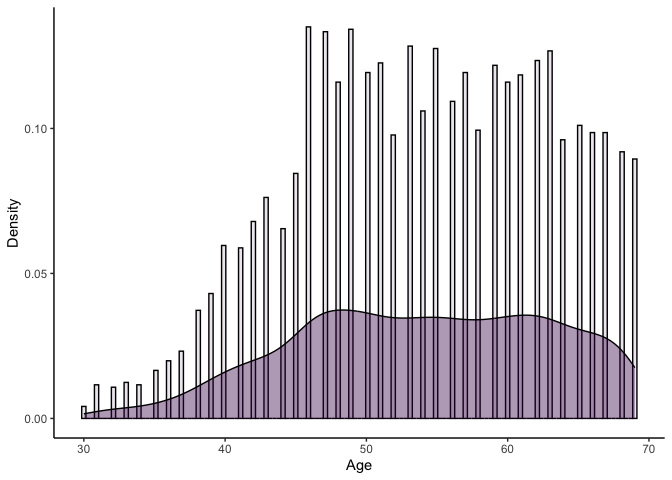
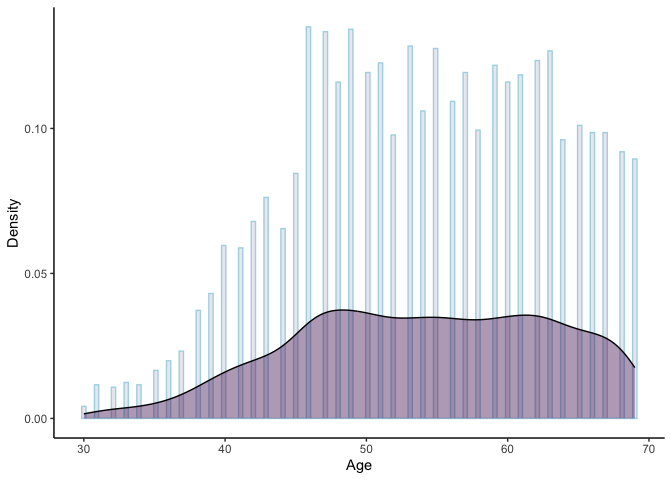
Finish EDA.

Changed region(s): [[0.0938, 0.0625, 0.9688, 0.875]]

diff --git a/P8130_Final_Project_Report.md b/P8130_Final_Project_Report.md
@@ -6,126 +6,17 @@ Jiying Wang
 ``` r
 knitr::opts_chunk$set(echo = TRUE, message = FALSE, warning = FALSE)
 library(tidyverse)
-```
-
-    ## ── Attaching core tidyverse packages ──────────────────────── tidyverse 2.0.0 ──
-    ## ✔ dplyr     1.1.4     ✔ readr     2.1.4
-    ## ✔ forcats   1.0.0     ✔ stringr   1.5.1
-    ## ✔ ggplot2   3.4.4     ✔ tibble    3.2.1
-    ## ✔ lubridate 1.9.3     ✔ tidyr     1.3.0
-    ## ✔ purrr     1.0.2     
-    ## ── Conflicts ────────────────────────────────────────── tidyverse_conflicts() ──
-    ## ✖ dplyr::filter() masks stats::filter()
-    ## ✖ dplyr::lag()    masks stats::lag()
-    ## ℹ Use the conflicted package (<http://conflicted.r-lib.org/>) to force all conflicts to become errors
-
-``` r
 library(dplyr)
 library(MASS)
-```
-
-    ## 
-    ## Attaching package: 'MASS'
-    ## 
-    ## The following object is masked from 'package:dplyr':
-    ## 
-    ##     select
-
-``` r
 library(ggplot2)
 library(corrplot)
-```
-
-    ## corrplot 0.92 loaded
-
-``` r
 library(leaps)
 library(glmnet)
-```
-
-    ## Loading required package: Matrix
-    ## 
-    ## Attaching package: 'Matrix'
-    ## 
-    ## The following objects are masked from 'package:tidyr':
-    ## 
-    ##     expand, pack, unpack
-    ## 
-    ## Loaded glmnet 4.1-8
-
-``` r
 library(igraph)
-```
-
-    ## 
-    ## Attaching package: 'igraph'
-    ## 
-    ## The following objects are masked from 'package:lubridate':
-    ## 
-    ##     %--%, union
-    ## 
-    ## The following objects are masked from 'package:dplyr':
-    ## 
-    ##     as_data_frame, groups, union
-    ## 
-    ## The following objects are masked from 'package:purrr':
-    ## 
-    ##     compose, simplify
-    ## 
-    ## The following object is masked from 'package:tidyr':
-    ## 
-    ##     crossing
-    ## 
-    ## The following object is masked from 'package:tibble':
-    ## 
-    ##     as_data_frame
-    ## 
-    ## The following objects are masked from 'package:stats':
-    ## 
-    ##     decompose, spectrum
-    ## 
-    ## The following object is masked from 'package:base':
-    ## 
-    ##     union
-
-``` r
 library(arules)
-```
-
-    ## 
-    ## Attaching package: 'arules'
-    ## 
-    ## The following object is masked from 'package:dplyr':
-    ## 
-    ##     recode
-    ## 
-    ## The following objects are masked from 'package:base':
-    ## 
-    ##     abbreviate, write
-
-``` r
 library(caret)
-```
-
-    ## Loading required package: lattice
-    ## 
-    ## Attaching package: 'caret'
-    ## 
-    ## The following object is masked from 'package:purrr':
-    ## 
-    ##     lift
-
-``` r
 library(pROC)
 ```
-
-    ## Type 'citation("pROC")' for a citation.
-    ## 
-    ## Attaching package: 'pROC'
-    ## 
-    ## The following objects are masked from 'package:stats':
-    ## 
-    ##     cov, smooth, var
 
 ## Clean the dataset
 
@@ -178,8 +69,6 @@ breastcancer_clean
 
 ## EDA
 
-### Descriptive Statistics
-
 ``` r
 # Descriptive table with summary statistics
 summary(breastcancer_clean) |>
@@ -206,6 +95,16 @@ breastcancer_clean |>
 | 53.97217 | 8.963134 |        30.47366 |       21.1197 |                    14.35711 |                  8.099675 |                   4.158052 |                 5.109331 |             71.29796 |           22.92143 |               0.3264658 |             0.2870226 |
 
 ``` r
+prop.table(table(breastcancer_clean$status)) |>
+  knitr::kable()
+```
+
+| Var1 |      Freq |
+|:-----|----------:|
+| 0    | 0.8469185 |
+| 1    | 0.1530815 |
+
+``` r
 # Correlation matrix for all variables
 cor_matrix = breastcancer_clean |>
   select_if(is.numeric) |>
@@ -214,6 +113,13 @@ corrplot::corrplot(cor_matrix, type = "upper", diag = FALSE)
 ```
 
 ![](P8130_Final_Project_Report_files/figure-gfm/unnamed-chunk-4-1.png)<!-- -->
+
+``` r
+# Heat map
+corrplot::corrplot(cor_matrix, method = "color")
+```
+
+![](P8130_Final_Project_Report_files/figure-gfm/unnamed-chunk-4-2.png)<!-- -->
 
 ``` r
 # Scatter plot matrix for all variables
@@ -225,8 +131,8 @@ pairs(breastcancer_clean)
 ``` r
 # Histograms and density plots
 breastcancer_clean |>
-  ggplot(aes(x = age, y = ..density.., fill = "skyblue", alpha = 0.5)) +
-  geom_histogram(binwidth = 0.3, colour = "black", alpha = 0.1) +
+  ggplot(aes(x = age, y = ..density.., fill = "purple", alpha = 0.5)) +
+  geom_histogram(binwidth = 0.3, colour = "lightblue", alpha = 0.1) +
   geom_density(alpha = 0.4) +
   labs(
     x = "Age",
@@ -240,8 +146,8 @@ breastcancer_clean |>
 
 ``` r
 breastcancer_clean |>
-  ggplot(aes(x = tumor_size, y = ..density.., fill = "skyblue", alpha = 0.5)) +
-  geom_histogram(binwidth = 0.3, colour = "black", alpha = 0.1) +
+  ggplot(aes(x = tumor_size, y = ..density.., fill = "purple", alpha = 0.5)) +
+  geom_histogram(binwidth = 0.3, colour = "lightblue", alpha = 0.1) +
   geom_density(alpha = 0.4) +
   labs(
     x = "Age",
@@ -255,8 +161,8 @@ breastcancer_clean |>
 
 ``` r
 breastcancer_clean |>
-  ggplot(aes(x = regional_node_examined, y = ..density.., fill = "skyblue", alpha = 0.5)) +
-  geom_histogram(binwidth = 0.3, colour = "black", alpha = 0.1) +
+  ggplot(aes(x = regional_node_examined, y = ..density.., fill = "purple", alpha = 0.5)) +
+  geom_histogram(binwidth = 0.3, colour = "lightblue", alpha = 0.1) +
   geom_density(alpha = 0.4) +
   labs(
     x = "Age",
@@ -270,8 +176,8 @@ breastcancer_clean |>
 
 ``` r
 breastcancer_clean |>
-  ggplot(aes(x = reginol_node_positive, y = ..density.., fill = "skyblue", alpha = 0.5)) +
-  geom_histogram(binwidth = 0.3, colour = "black", alpha = 0.1) +
+  ggplot(aes(x = reginol_node_positive, y = ..density.., fill = "purple", alpha = 0.5)) +
+  geom_histogram(binwidth = 0.3, colour = "lightblue", alpha = 0.1) +
   geom_density(alpha = 0.4) +
   labs(
     x = "Age",
@@ -285,8 +191,8 @@ breastcancer_clean |>
 
 ``` r
 breastcancer_clean |>
-  ggplot(aes(x = node_positive_prop, y = ..density.., fill = "skyblue", alpha = 0.5)) +
-  geom_histogram(binwidth = 0.3, colour = "black", alpha = 0.1) +
+  ggplot(aes(x = node_positive_prop, y = ..density.., fill = "purple", alpha = 0.5)) +
+  geom_histogram(binwidth = 0.3, colour = "lightblue", alpha = 0.1) +
   geom_density(alpha = 0.4) +
   labs(
     x = "Age",
@@ -299,5 +205,95 @@ breastcancer_clean |>
 ![](P8130_Final_Project_Report_files/figure-gfm/unnamed-chunk-6-5.png)<!-- -->
 
 ``` r
-# Boxplots grouped by categories
+# Boxplots 
+par(mfrow=c(2,3))
+boxplot(breastcancer_clean$age, main='Age')
+boxplot(breastcancer_clean$tumor_size, main='Tumor Size')
+boxplot(breastcancer_clean$regional_node_examined,main='Node Examined' )
+boxplot(breastcancer_clean$reginol_node_positive, main='Positive Node')
+boxplot(breastcancer_clean$node_positive_prop, main='Proportion of Positive Nodes')
 ```
+
+![](P8130_Final_Project_Report_files/figure-gfm/unnamed-chunk-7-1.png)<!-- -->
+
+``` r
+par(mfrow = c(2,3))
+boxplot(age ~ status, breastcancer_clean)
+boxplot(tumor_size ~ status, breastcancer_clean)
+boxplot(regional_node_examined ~ status, breastcancer_clean)
+boxplot(reginol_node_positive ~ status, breastcancer_clean)
+boxplot(node_positive_prop ~ status, breastcancer_clean)
+```
+
+![](P8130_Final_Project_Report_files/figure-gfm/unnamed-chunk-8-1.png)<!-- -->
+
+``` r
+# Barplots for categorical variables
+ggplot(breastcancer_clean, aes(x = race, fill = status)) + 
+  geom_bar(position = "dodge")
+```
+
+![](P8130_Final_Project_Report_files/figure-gfm/unnamed-chunk-9-1.png)<!-- -->
+
+``` r
+ggplot(breastcancer_clean, aes(x = marital_status, fill = status)) + 
+  geom_bar(position = "dodge")
+```
+
+![](P8130_Final_Project_Report_files/figure-gfm/unnamed-chunk-9-2.png)<!-- -->
+
+``` r
+ggplot(breastcancer_clean, aes(x = t_stage, fill = status)) + 
+  geom_bar(position = "dodge")
+```
+
+![](P8130_Final_Project_Report_files/figure-gfm/unnamed-chunk-9-3.png)<!-- -->
+
+``` r
+ggplot(breastcancer_clean, aes(x = n_stage, fill = status)) + 
+  geom_bar(position = "dodge")
+```
+
+![](P8130_Final_Project_Report_files/figure-gfm/unnamed-chunk-9-4.png)<!-- -->
+
+``` r
+ggplot(breastcancer_clean, aes(x = x6th_stage, fill = status)) + 
+  geom_bar(position = "dodge")
+```
+
+![](P8130_Final_Project_Report_files/figure-gfm/unnamed-chunk-9-5.png)<!-- -->
+
+``` r
+ggplot(breastcancer_clean, aes(x = differentiate, fill = status)) + 
+  geom_bar(position = "dodge")
+```
+
+![](P8130_Final_Project_Report_files/figure-gfm/unnamed-chunk-9-6.png)<!-- -->
+
+``` r
+ggplot(breastcancer_clean, aes(x = grade, fill = status)) + 
+  geom_bar(position = "dodge")
+```
+
+![](P8130_Final_Project_Report_files/figure-gfm/unnamed-chunk-9-7.png)<!-- -->
+
+``` r
+ggplot(breastcancer_clean, aes(x = a_stage, fill = status)) + 
+  geom_bar(position = "dodge")
+```
+
+![](P8130_Final_Project_Report_files/figure-gfm/unnamed-chunk-9-8.png)<!-- -->
+
+``` r
+ggplot(breastcancer_clean, aes(x = estrogen_status, fill = status)) + 
+  geom_bar(position = "dodge")
+```
+
+![](P8130_Final_Project_Report_files/figure-gfm/unnamed-chunk-9-9.png)<!-- -->
+
+``` r
+ggplot(breastcancer_clean, aes(x = progesterone_status, fill = status)) + 
+  geom_bar(position = "dodge")
+```
+
+![](P8130_Final_Project_Report_files/figure-gfm/unnamed-chunk-9-10.png)<!-- -->
